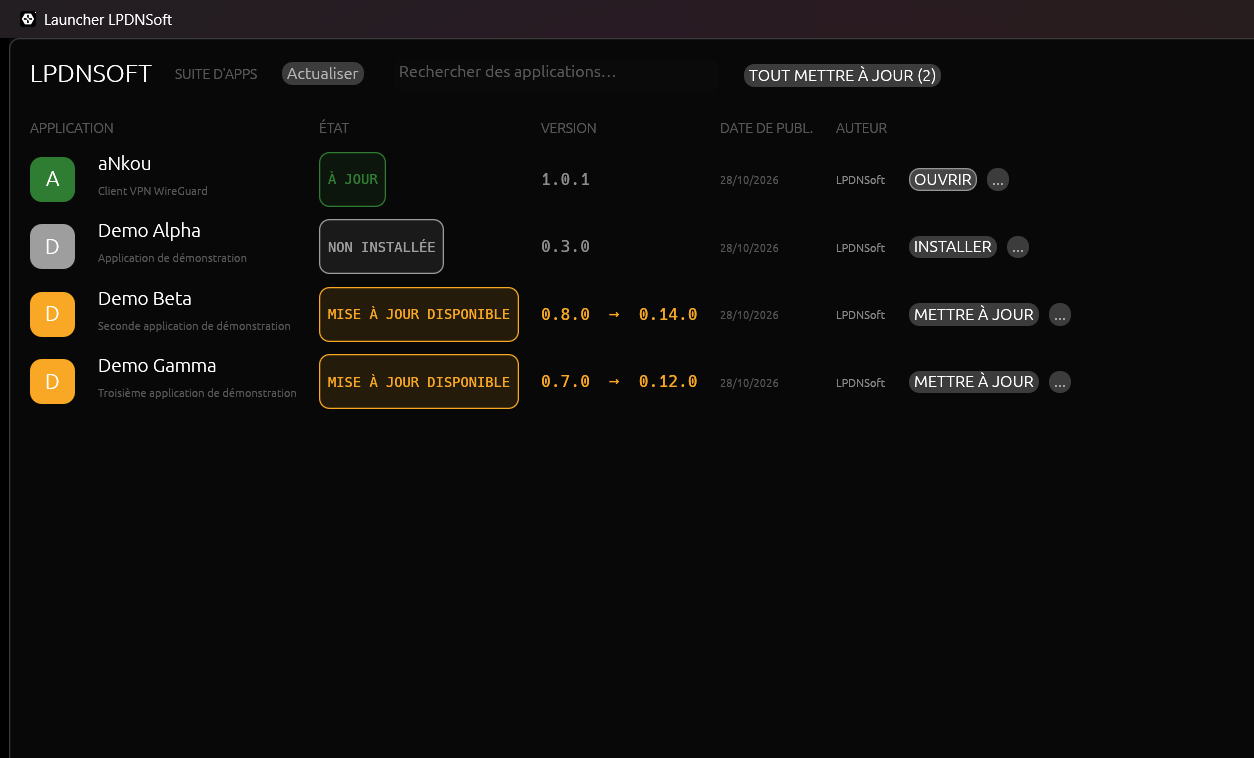
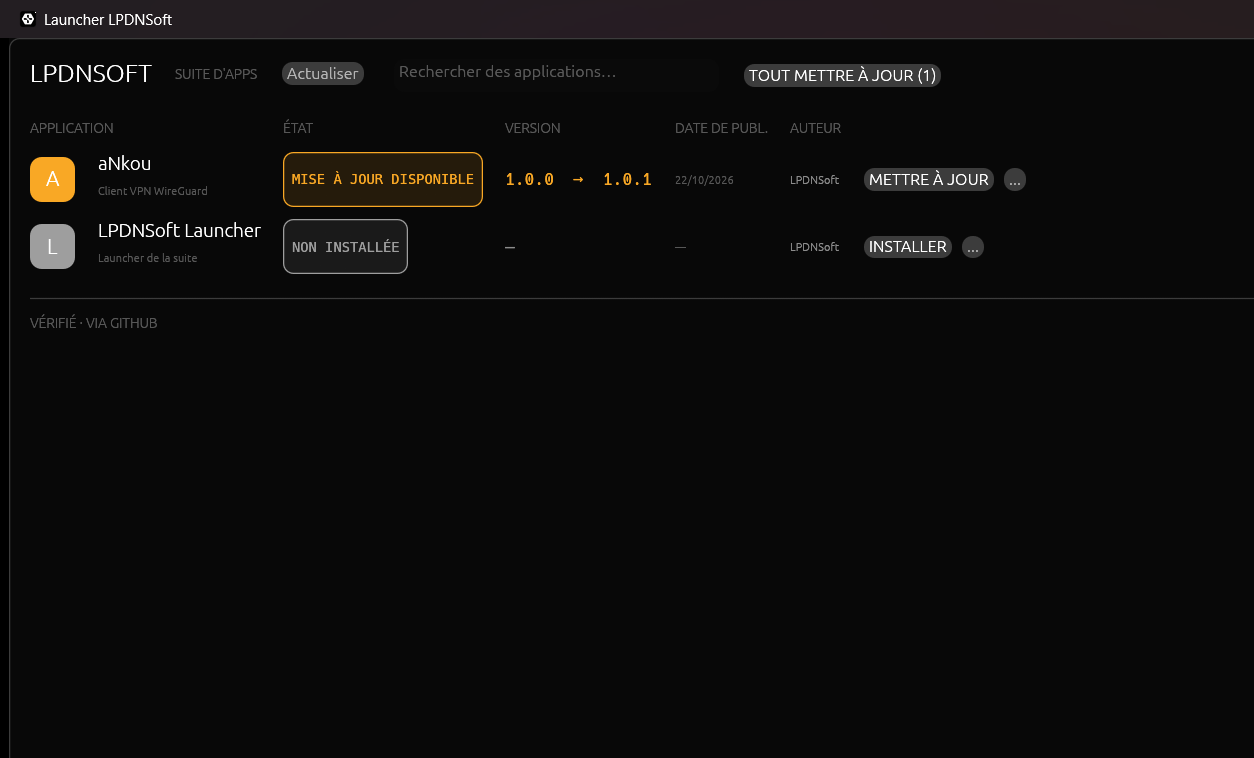
docs: update the state and the screenshot
List what works, what deliberately does not, and show the window obtained from an actual run on Windows.

diff --git a/README.md b/README.md
@@ -5,23 +5,27 @@ installée et la dernière publiée, et les installe ou les met à jour depuis l
 
 Référence visuelle et fonctionnelle : le launcher ArtCraft (cité par la spec d'aNkou §1).
 
-![Le launcher en v0.1, sur données de démonstration](docs/capture.png)
+![Le launcher en v0.2, sur données réelles](docs/capture.png)
 
-## État — v0.1 (socle)
+## État — v0.2 (données réelles)
 
-Ce qui marche aujourd'hui :
+Ce qui marche :
 
-- **Catalogue typé** : applications, plateformes, motifs de nom d'asset, releases, états ;
-- **Interface complète** : liste, pastilles d'état, versions, dates, recherche, actions et menu ;
-- **i18n** anglais/français, clés vérifiées à la compilation ;
-- 20 tests, `fmt` et `clippy -D warnings` propres.
+- **Vraies releases** : une requête `GET /releases/latest` par application, sans intermédiaire
+  ni jeton — version disponible et date de publication viennent de GitHub ;
+- **Vraie version installée** sous Windows, lue dans les clés de désinstallation du registre ;
+- **États calculés** : à jour, mise à jour disponible, non installée, version inconnue ;
+- **Interface complète** : pastilles d'état, recherche, menu par application, deux langues ;
+- **Pied de page honnête** : jamais vérifié / vérification en cours / vérifié / échec motivé ;
+- 26 tests, `fmt` et `clippy -D warnings` propres, `cargo deny` sans avis.
 
-Ce qui n'est pas encore là, volontairement :
+Ce qui n'existe pas encore :
 
-- aucun accès réseau : le catalogue vient de `crates/ui/src/fixture.rs` ;
-- aucun téléchargement, aucune vérification `SHA256SUMS`, aucune installation ;
-- aucune détection des versions réellement installées ;
-- les boutons remplissent une file de `Request`, que rien ne consomme encore.
+- aucun téléchargement, aucune vérification `SHA256SUMS`, aucune installation ni mise à jour ;
+- les boutons Installer / Mettre à jour / Ouvrir et le menu remplissent une file de `Request`
+  que rien ne consomme ;
+- aucune détection hors Windows, aucun cache disque : un lancement hors ligne n'affiche
+  d'abord qu'un échec motivé, puis les données de la passe précédente s'il y en a une.
 
 ## Compiler et lancer
 
